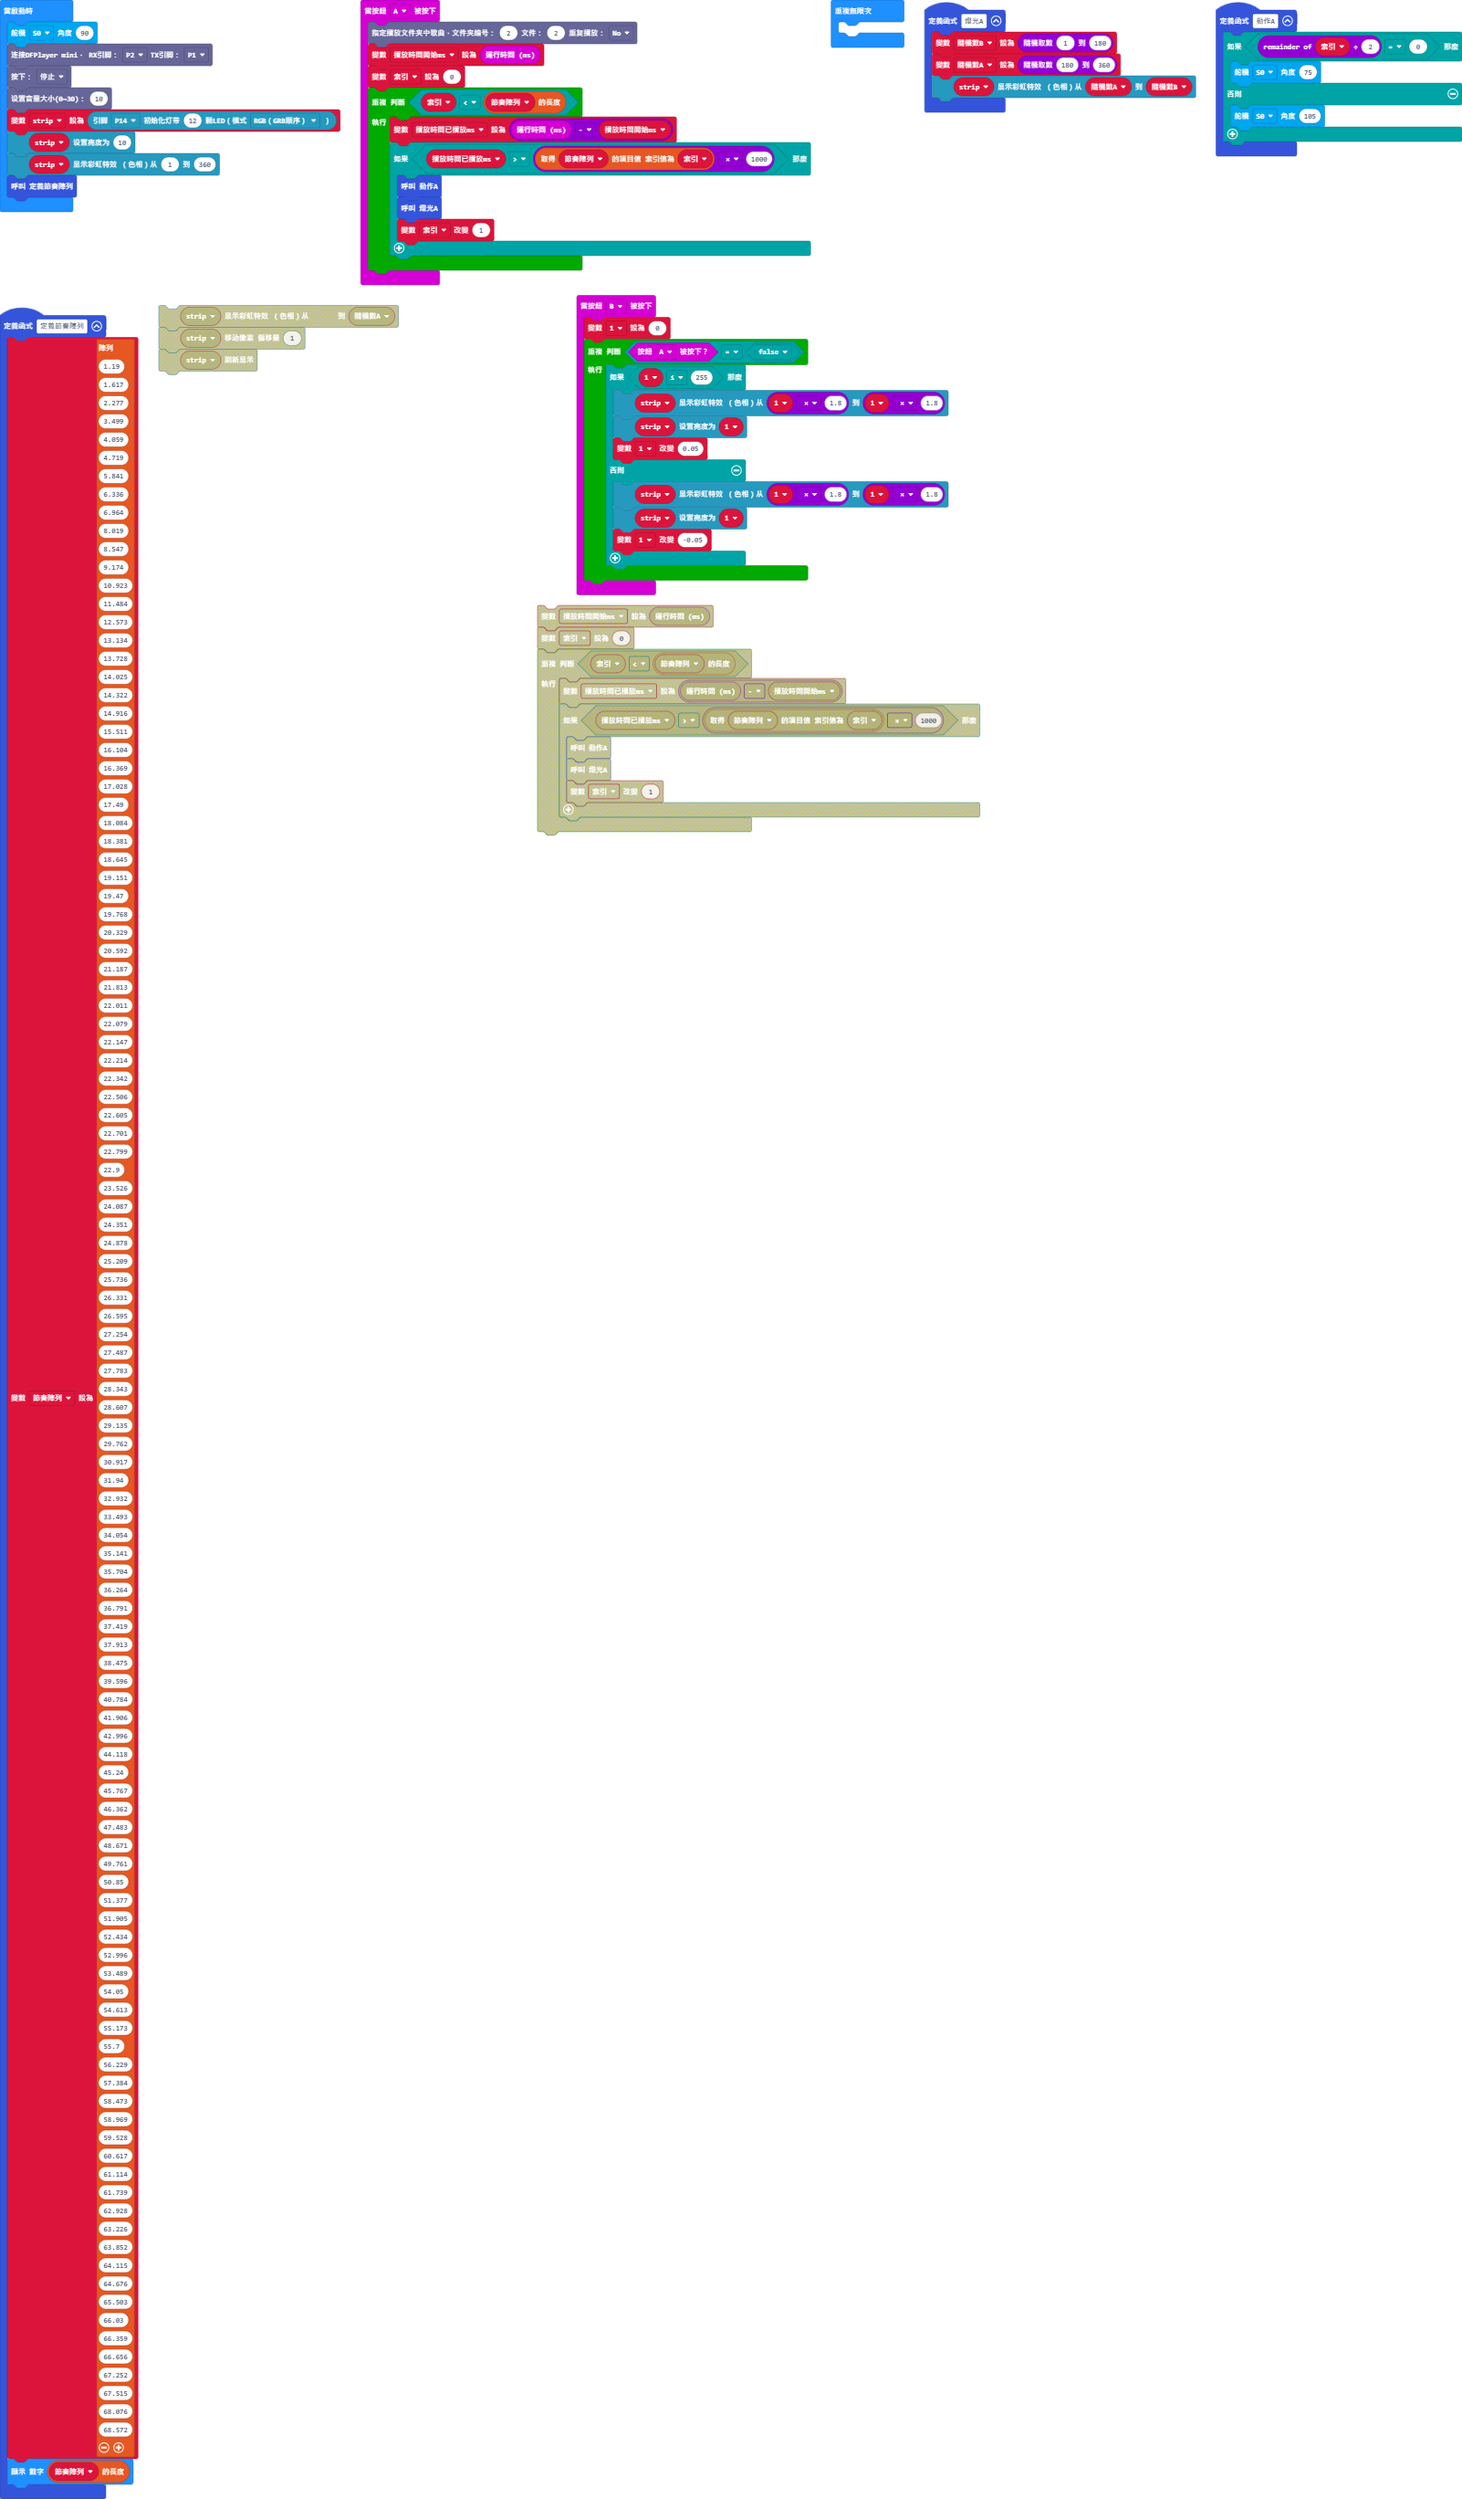
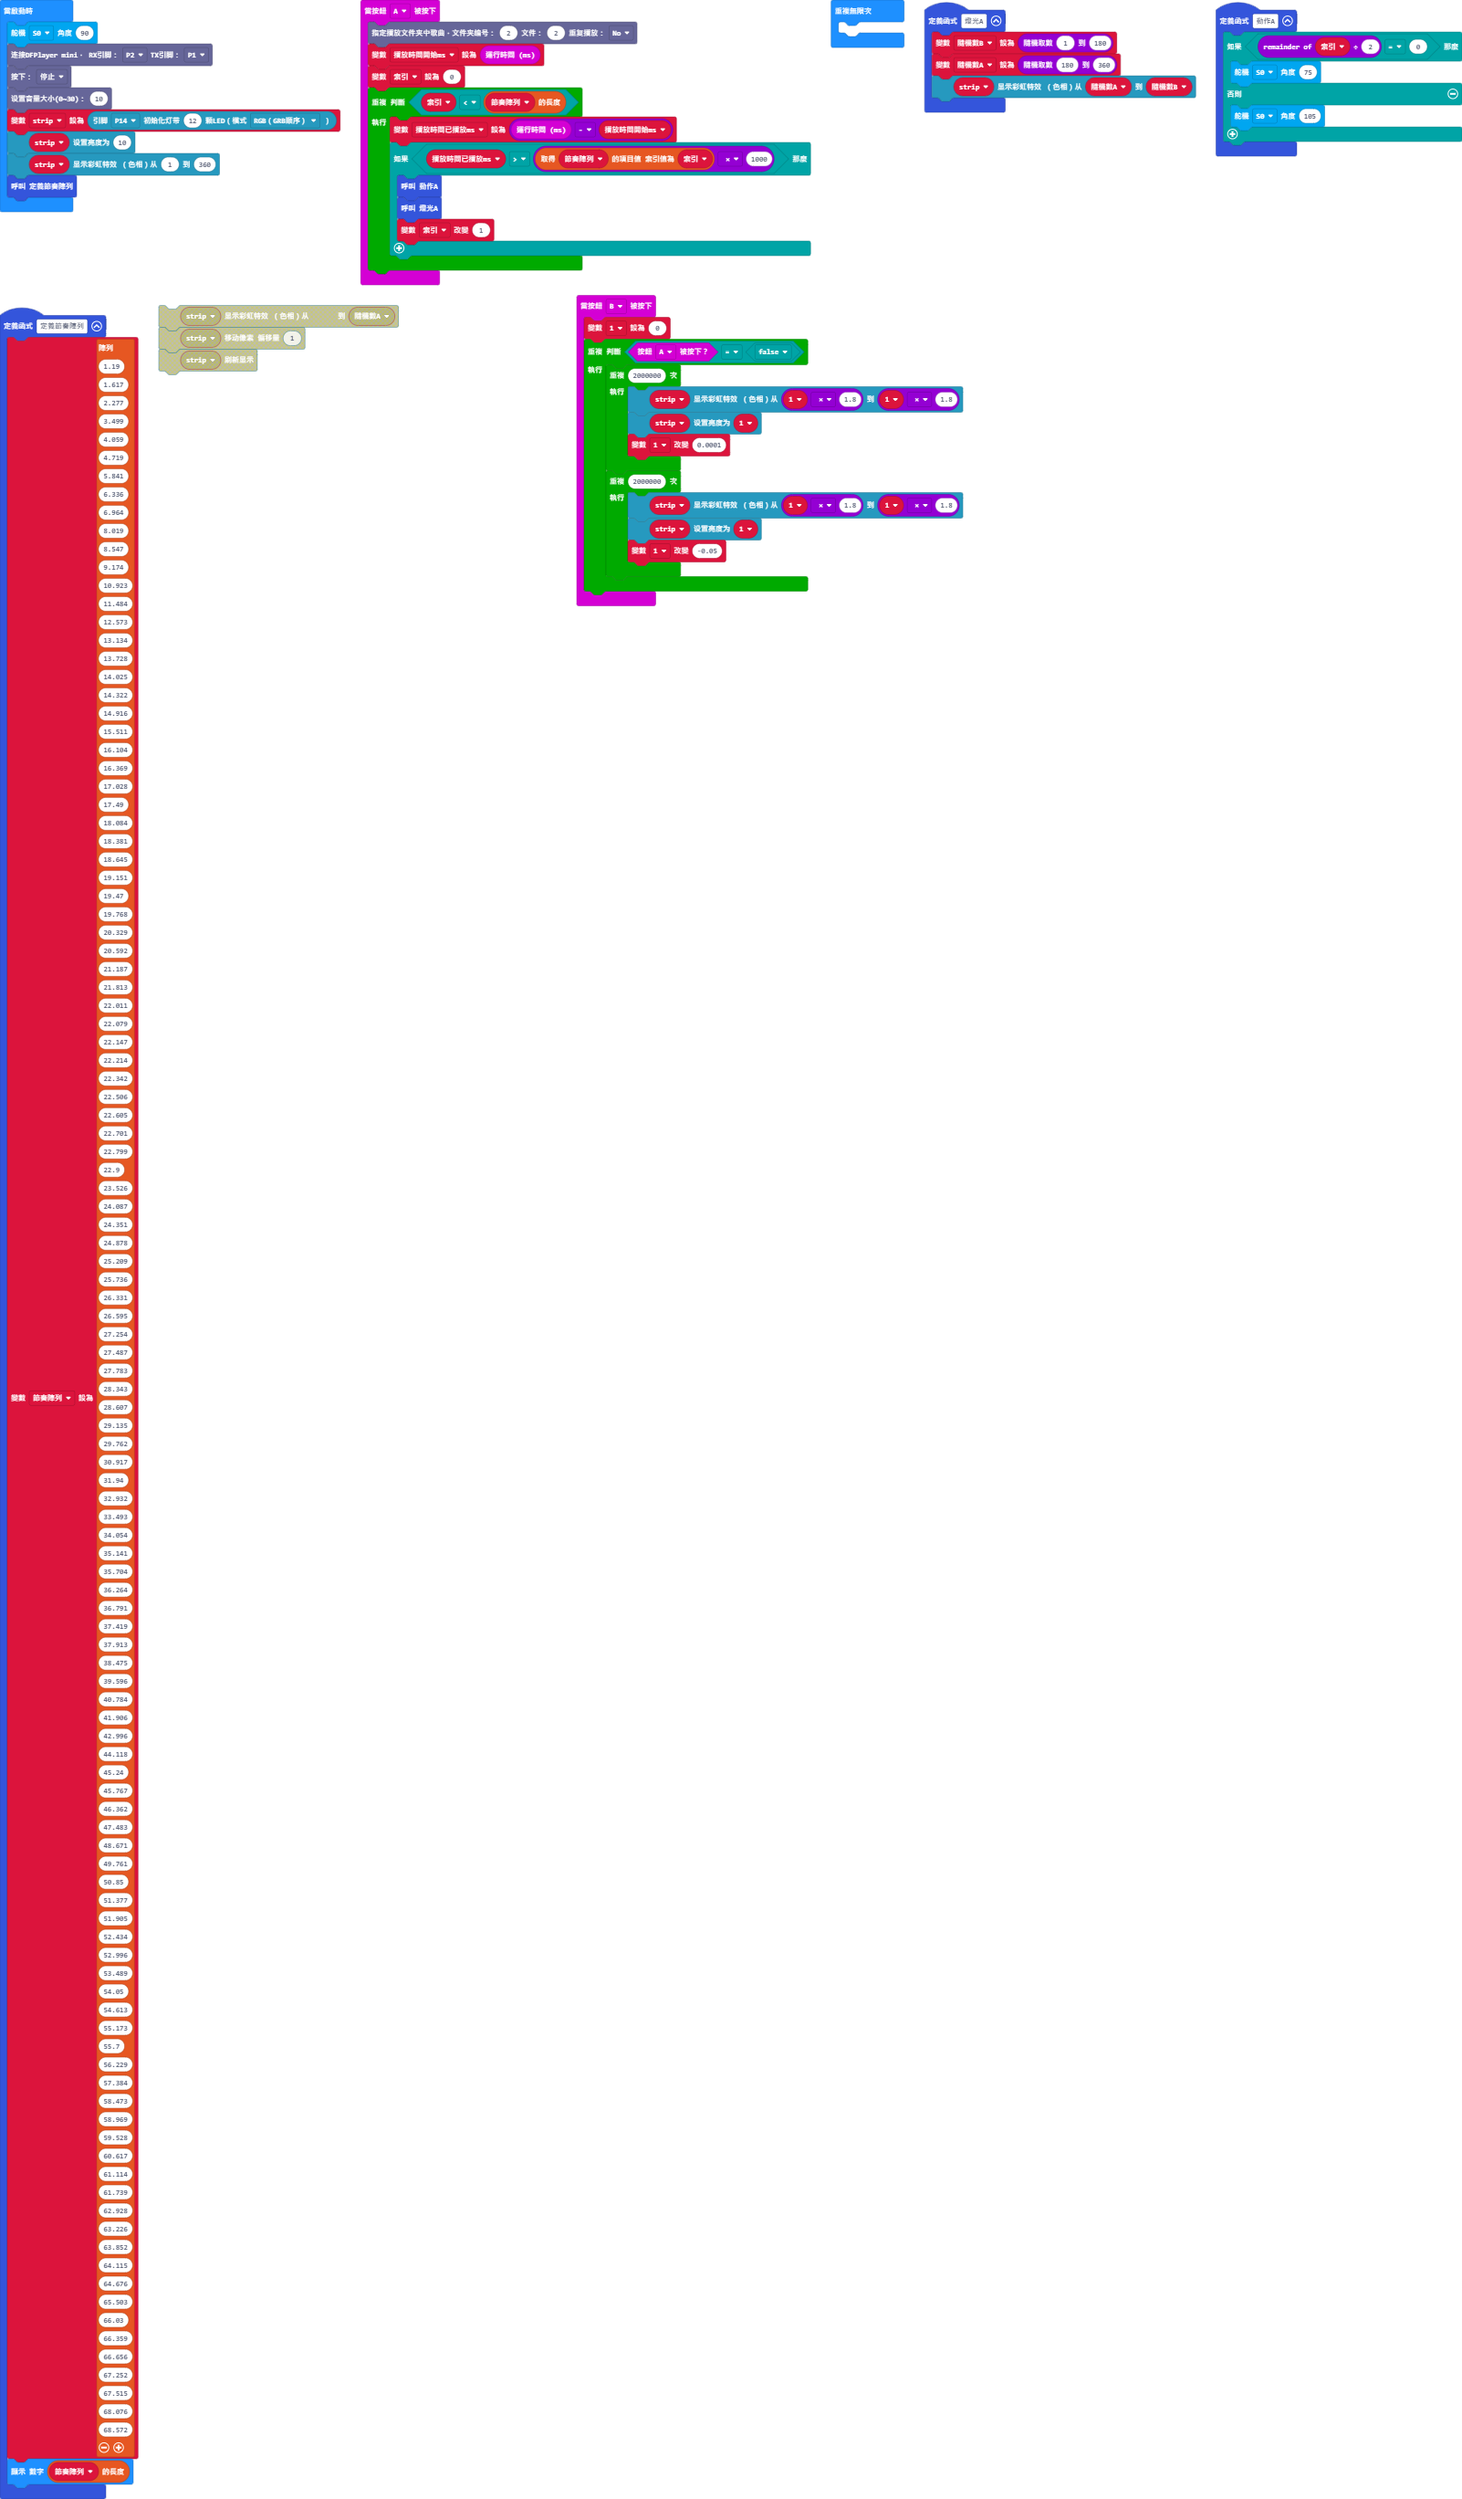
更新 main.blocks, main.ts

Changed region(s): [[0.3433, 0.1242, 0.6866, 0.3416]]

diff --git a/main.ts b/main.ts
@@ -145,11 +145,12 @@ function 定義節奏陣列 () {
 input.onButtonPressed(Button.B, function () {
     _1 = 0
     while (input.buttonIsPressed(Button.A) == false) {
-        if (_1 <= 255) {
+        for (let index = 0; index < 2000000; index++) {
             strip.showRainbow(_1 * 1.8, _1 * 1.8)
             strip.setBrightness(_1)
-            _1 += 0.05
-        } else {
+            _1 += 0.0001
+        }
+        for (let index = 0; index < 2000000; index++) {
             strip.showRainbow(_1 * 1.8, _1 * 1.8)
             strip.setBrightness(_1)
             _1 += -0.05
